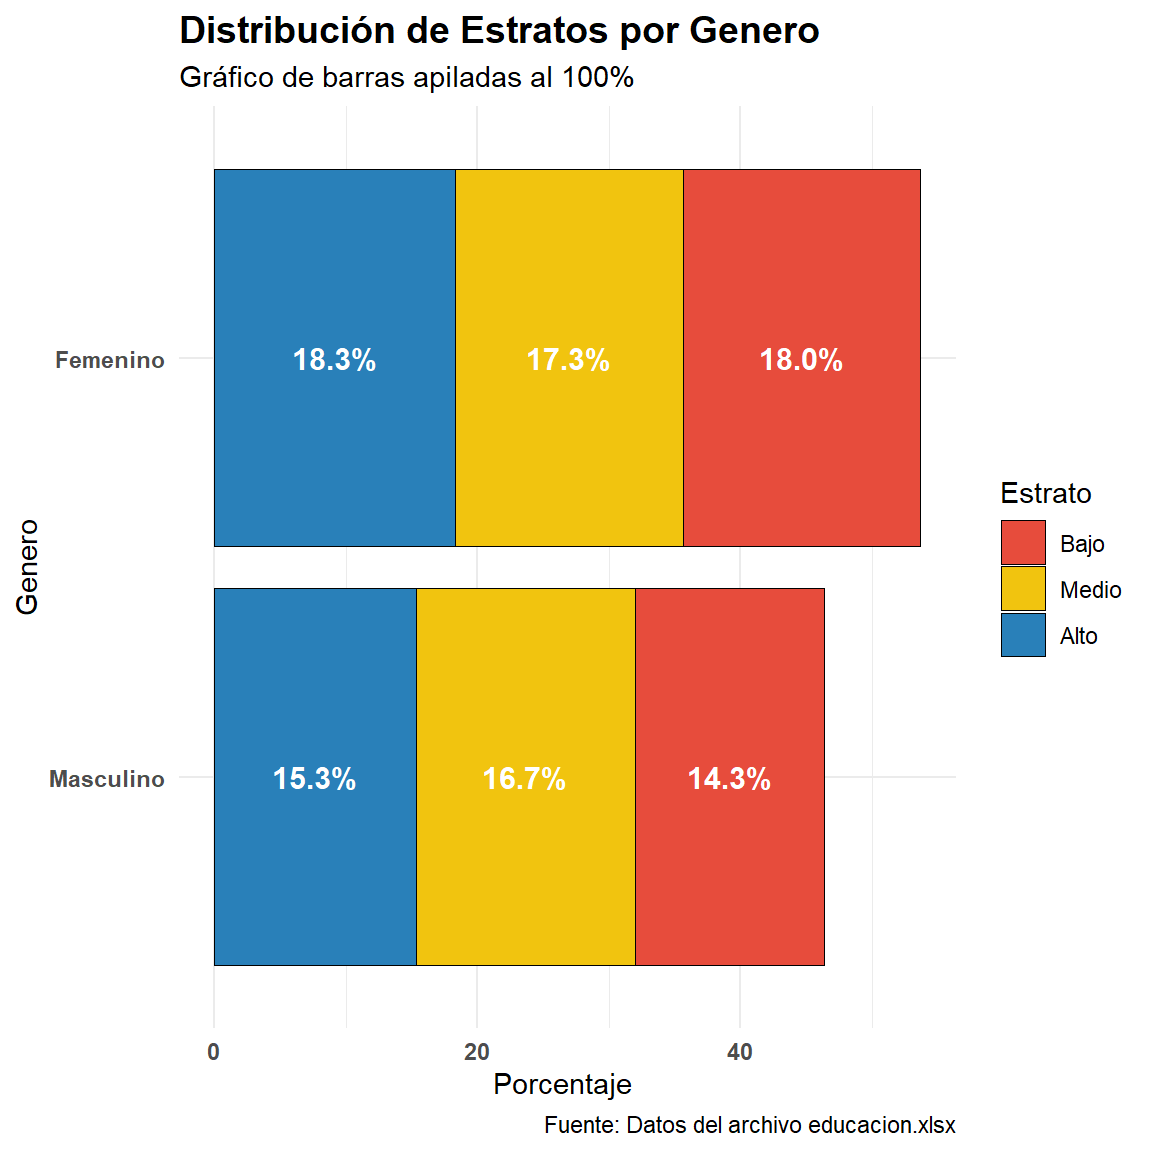
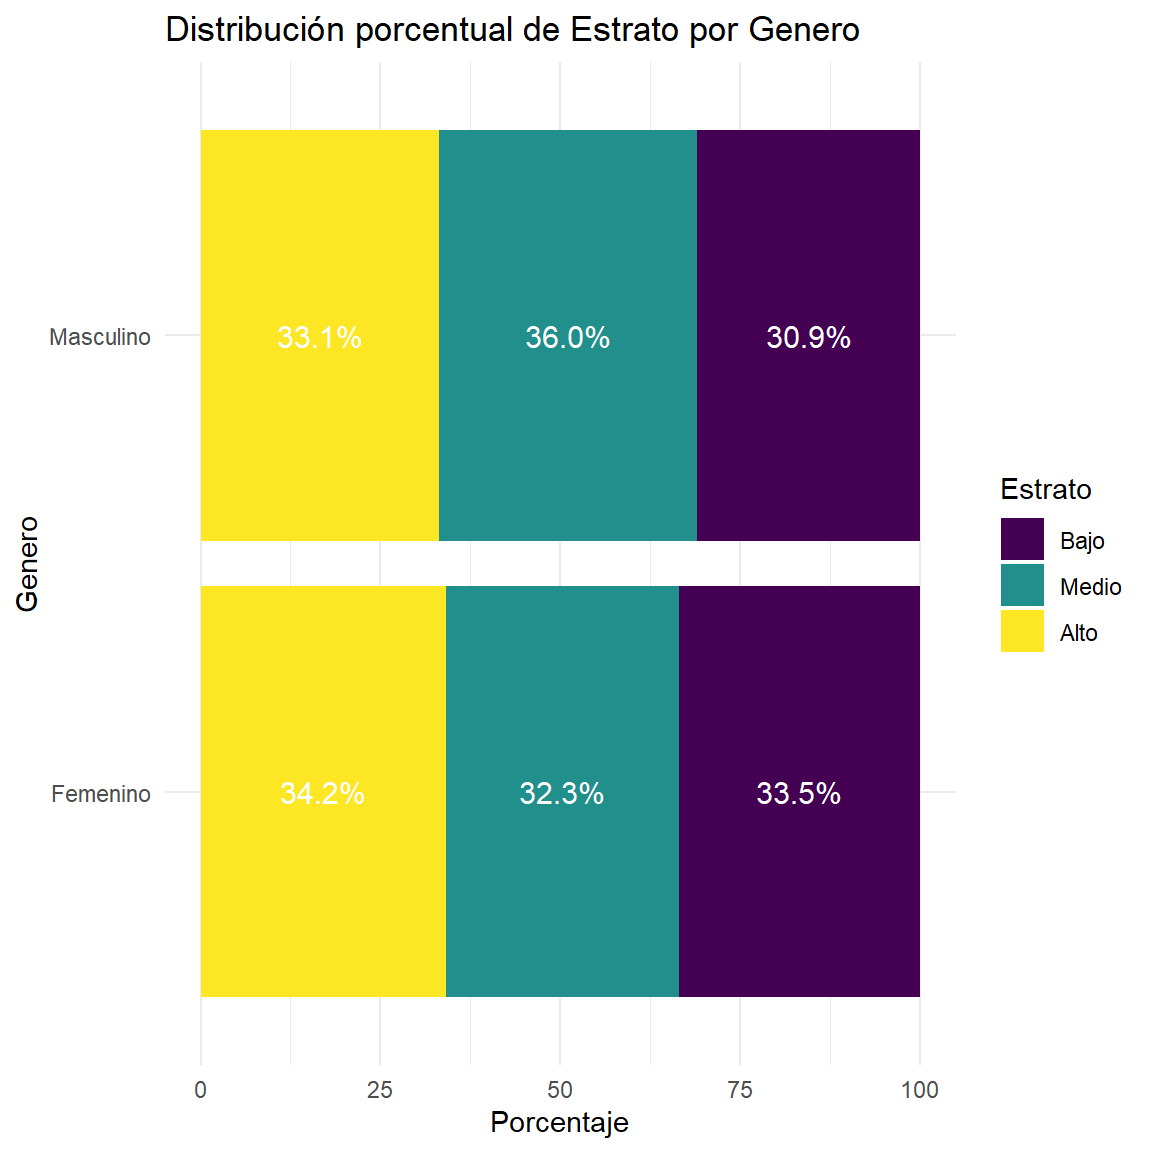
cambios pagina

diff --git a/index.html b/index.html
@@ -132,15 +132,15 @@ window.Quarto = {
 
 <body class="quarto-light">
 
-<header id="title-block-header" class="quarto-title-block default toc-left page-columns page-full">
+<header id="title-block-header" class="quarto-title-block default page-columns page-full">
   <div class="quarto-title-banner page-columns page-full">
-    <div class="quarto-title column-page-right">
+    <div class="quarto-title column-page-left">
       <h1 class="title">DISTRIBUCIONES DE FRECUENCIAS</h1>
             <p class="subtitle lead">TALLER_1</p>
                       </div>
   </div>
     
-  <div class="quarto-title-meta-author column-page-right">
+  <div class="quarto-title-meta-author column-page-left">
     <div class="quarto-title-meta-heading">Autores/as</div>
     <div class="quarto-title-meta-heading">Afiliación</div>
     
@@ -161,13 +161,13 @@ window.Quarto = {
         </div>
     </div>
 
-  <div class="quarto-title-meta column-page-right">
+  <div class="quarto-title-meta column-page-left">
 
         
       <div>
       <div class="quarto-title-meta-heading">Fecha de publicación</div>
       <div class="quarto-title-meta-contents">
-        <p class="date">23 de abril de 2026</p>
+        <p class="date">24 de abril de 2026</p>
       </div>
     </div>
     
@@ -175,8 +175,8 @@ window.Quarto = {
     </div>
     
   
-  </header><div id="quarto-content" class="page-columns page-rows-contents page-layout-full toc-left">
-<div id="quarto-sidebar-toc-left" class="sidebar toc-left">
+  </header><div id="quarto-content" class="page-columns page-rows-contents page-layout-full">
+<div id="quarto-margin-sidebar" class="sidebar margin-sidebar">
   <nav id="TOC" role="doc-toc" class="toc-active">
     <h2 id="toc-title">Tabla de contenidos</h2>
    
@@ -196,9 +196,7 @@ window.Quarto = {
   </ul>
 </nav>
 </div>
-<div id="quarto-margin-sidebar" class="sidebar margin-sidebar zindex-bottom">
-</div>
-<main class="content quarto-banner-title-block column-page-right" id="quarto-document-content">
+<main class="content quarto-banner-title-block column-page-left" id="quarto-document-content">
 
 
 
@@ -219,7 +217,7 @@ window.Quarto = {
 <style>
 body{
   background-color:#FFFFFF;
-  font-size:130%;
+  font-size:110%;
   text-align:justify;
 }
 </style>
@@ -751,7 +749,7 @@ $ Satisfaccion     &lt;chr&gt; "Muy alta", "Media", "Muy alta", "Muy alta", "Muy
 <div class="cell-output-display">
 <div class="quarto-figure quarto-figure-center">
 <figure class="figure">
-<p><img src="index_files/figure-html/unnamed-chunk-10-1.png" class="img-fluid quarto-figure quarto-figure-center figure-img" style="width:80.0%"></p>
+<p><img src="index_files/figure-html/unnamed-chunk-10-1.png" class="img-fluid quarto-figure quarto-figure-center figure-img" style="width:70.0%"></p>
 </figure>
 </div>
 </div>
@@ -791,7 +789,7 @@ $ Satisfaccion     &lt;chr&gt; "Muy alta", "Media", "Muy alta", "Muy alta", "Muy
 <div class="cell-output-display">
 <div class="quarto-figure quarto-figure-center">
 <figure class="figure">
-<p><img src="index_files/figure-html/unnamed-chunk-11-1.png" class="img-fluid quarto-figure quarto-figure-center figure-img" style="width:80.0%"></p>
+<p><img src="index_files/figure-html/unnamed-chunk-11-1.png" class="img-fluid quarto-figure quarto-figure-center figure-img" style="width:70.0%"></p>
 </figure>
 </div>
 </div>
@@ -942,7 +940,7 @@ $ Satisfaccion     &lt;chr&gt; "Muy alta", "Media", "Muy alta", "Muy alta", "Muy
 <div class="cell-output-display">
 <div class="quarto-figure quarto-figure-center">
 <figure class="figure">
-<p><img src="index_files/figure-html/unnamed-chunk-13-1.png" class="img-fluid quarto-figure quarto-figure-center figure-img" style="width:80.0%"></p>
+<p><img src="index_files/figure-html/unnamed-chunk-13-1.png" class="img-fluid quarto-figure quarto-figure-center figure-img" style="width:70.0%"></p>
 </figure>
 </div>
 </div>
@@ -1152,7 +1150,7 @@ $ Satisfaccion     &lt;chr&gt; "Muy alta", "Media", "Muy alta", "Muy alta", "Muy
 <div class="cell-output-display">
 <div class="quarto-figure quarto-figure-center">
 <figure class="figure">
-<p><img src="index_files/figure-html/unnamed-chunk-15-1.png" class="img-fluid quarto-figure quarto-figure-center figure-img" style="width:80.0%"></p>
+<p><img src="index_files/figure-html/unnamed-chunk-15-1.png" class="img-fluid quarto-figure quarto-figure-center figure-img" style="width:70.0%"></p>
 </figure>
 </div>
 </div>
@@ -1192,7 +1190,7 @@ $ Satisfaccion     &lt;chr&gt; "Muy alta", "Media", "Muy alta", "Muy alta", "Muy
 <div class="cell-output-display">
 <div class="quarto-figure quarto-figure-center">
 <figure class="figure">
-<p><img src="index_files/figure-html/unnamed-chunk-16-1.png" class="img-fluid quarto-figure quarto-figure-center figure-img" style="width:80.0%"></p>
+<p><img src="index_files/figure-html/unnamed-chunk-16-1.png" class="img-fluid quarto-figure quarto-figure-center figure-img" style="width:70.0%"></p>
 </figure>
 </div>
 </div>
@@ -1558,7 +1556,7 @@ Distribución de Frecuencias: Variable Horas
 <div class="cell-output-display">
 <div class="quarto-figure quarto-figure-center">
 <figure class="figure">
-<p><img src="index_files/figure-html/unnamed-chunk-27-1.png" class="img-fluid quarto-figure quarto-figure-center figure-img" style="width:80.0%"></p>
+<p><img src="index_files/figure-html/unnamed-chunk-27-1.png" class="img-fluid quarto-figure quarto-figure-center figure-img" style="width:70.0%"></p>
 </figure>
 </div>
 </div>
@@ -1595,7 +1593,7 @@ Distribución de Frecuencias: Variable Horas
 <div class="cell-output-display">
 <div class="quarto-figure quarto-figure-center">
 <figure class="figure">
-<p><img src="index_files/figure-html/unnamed-chunk-28-1.png" class="img-fluid quarto-figure quarto-figure-center figure-img" style="width:80.0%"></p>
+<p><img src="index_files/figure-html/unnamed-chunk-28-1.png" class="img-fluid quarto-figure quarto-figure-center figure-img" style="width:70.0%"></p>
 </figure>
 </div>
 </div>
@@ -1631,7 +1629,7 @@ Distribución de Frecuencias: Variable Horas
 <div class="cell-output-display">
 <div class="quarto-figure quarto-figure-center">
 <figure class="figure">
-<p><img src="index_files/figure-html/unnamed-chunk-29-1.png" class="img-fluid quarto-figure quarto-figure-center figure-img" style="width:80.0%"></p>
+<p><img src="index_files/figure-html/unnamed-chunk-29-1.png" class="img-fluid quarto-figure quarto-figure-center figure-img" style="width:70.0%"></p>
 </figure>
 </div>
 </div>
@@ -1819,7 +1817,7 @@ Distribución de Frecuencias: Variable Horas
 <div class="cell-output-display">
 <div class="quarto-figure quarto-figure-center">
 <figure class="figure">
-<p><img src="index_files/figure-html/unnamed-chunk-32-1.png" class="img-fluid quarto-figure quarto-figure-center figure-img" style="width:80.0%"></p>
+<p><img src="index_files/figure-html/unnamed-chunk-32-1.png" class="img-fluid quarto-figure quarto-figure-center figure-img" style="width:70.0%"></p>
 </figure>
 </div>
 </div>
@@ -1854,7 +1852,7 @@ Distribución de Frecuencias: Variable Horas
 <div class="cell-output-display">
 <div class="quarto-figure quarto-figure-center">
 <figure class="figure">
-<p><img src="index_files/figure-html/unnamed-chunk-33-1.png" class="img-fluid quarto-figure quarto-figure-center figure-img" style="width:80.0%"></p>
+<p><img src="index_files/figure-html/unnamed-chunk-33-1.png" class="img-fluid quarto-figure quarto-figure-center figure-img" style="width:70.0%"></p>
 </figure>
 </div>
 </div>
@@ -1869,54 +1867,29 @@ Distribución de Frecuencias: Variable Horas
 <span id="cb49-3"><a href="#cb49-3" aria-hidden="true" tabindex="-1"></a><span class="fu">library</span>(dplyr)</span>
 <span id="cb49-4"><a href="#cb49-4" aria-hidden="true" tabindex="-1"></a><span class="fu">library</span>(readxl)</span>
 <span id="cb49-5"><a href="#cb49-5" aria-hidden="true" tabindex="-1"></a></span>
-<span id="cb49-6"><a href="#cb49-6" aria-hidden="true" tabindex="-1"></a>data_grafico <span class="ot">&lt;-</span> educacion <span class="sc">%&gt;%</span></span>
-<span id="cb49-7"><a href="#cb49-7" aria-hidden="true" tabindex="-1"></a></span>
-<span id="cb49-8"><a href="#cb49-8" aria-hidden="true" tabindex="-1"></a>  <span class="fu">filter</span>(<span class="sc">!</span><span class="fu">is.na</span>(Genero), <span class="sc">!</span><span class="fu">is.na</span>(Estrato)) <span class="sc">%&gt;%</span></span>
-<span id="cb49-9"><a href="#cb49-9" aria-hidden="true" tabindex="-1"></a></span>
-<span id="cb49-10"><a href="#cb49-10" aria-hidden="true" tabindex="-1"></a>  <span class="fu">mutate</span>(</span>
-<span id="cb49-11"><a href="#cb49-11" aria-hidden="true" tabindex="-1"></a>    <span class="at">Genero =</span> <span class="fu">factor</span>(Genero, <span class="at">levels =</span> <span class="fu">c</span>(<span class="st">"Masculino"</span>, <span class="st">"Femenino"</span>)),</span>
-<span id="cb49-12"><a href="#cb49-12" aria-hidden="true" tabindex="-1"></a>    <span class="at">Estrato =</span> <span class="fu">factor</span>(Estrato, <span class="at">levels =</span> <span class="fu">c</span>(<span class="st">"Bajo"</span>, <span class="st">"Medio"</span>, <span class="st">"Alto"</span>))</span>
-<span id="cb49-13"><a href="#cb49-13" aria-hidden="true" tabindex="-1"></a>  ) <span class="sc">%&gt;%</span></span>
-<span id="cb49-14"><a href="#cb49-14" aria-hidden="true" tabindex="-1"></a>  <span class="fu">count</span>(Genero, Estrato) <span class="sc">%&gt;%</span></span>
-<span id="cb49-15"><a href="#cb49-15" aria-hidden="true" tabindex="-1"></a>  <span class="fu">group_by</span>() <span class="sc">%&gt;%</span></span>
-<span id="cb49-16"><a href="#cb49-16" aria-hidden="true" tabindex="-1"></a>  <span class="fu">mutate</span>(<span class="at">porcentaje =</span> n <span class="sc">/</span> <span class="fu">sum</span>(n) <span class="sc">*</span> <span class="dv">100</span>)</span>
-<span id="cb49-17"><a href="#cb49-17" aria-hidden="true" tabindex="-1"></a></span>
-<span id="cb49-18"><a href="#cb49-18" aria-hidden="true" tabindex="-1"></a><span class="fu">ggplot</span>(data_grafico, <span class="fu">aes</span>(<span class="at">x =</span> Genero, <span class="at">y =</span> porcentaje, <span class="at">fill =</span> Estrato)) <span class="sc">+</span></span>
-<span id="cb49-19"><a href="#cb49-19" aria-hidden="true" tabindex="-1"></a>  <span class="co"># geom_col con position = "stack" crea el efecto apilado</span></span>
-<span id="cb49-20"><a href="#cb49-20" aria-hidden="true" tabindex="-1"></a>  <span class="fu">geom_col</span>(<span class="at">position =</span> <span class="st">"stack"</span>, <span class="at">color =</span> <span class="st">"black"</span>, <span class="at">linewidth =</span> <span class="fl">0.3</span>) <span class="sc">+</span></span>
-<span id="cb49-21"><a href="#cb49-21" aria-hidden="true" tabindex="-1"></a>  </span>
-<span id="cb49-22"><a href="#cb49-22" aria-hidden="true" tabindex="-1"></a>  <span class="fu">scale_fill_manual</span>(<span class="at">values =</span> <span class="fu">c</span>(<span class="st">"Bajo"</span> <span class="ot">=</span> <span class="st">"#E74C3C"</span>, <span class="st">"Medio"</span> <span class="ot">=</span> <span class="st">"#F1C40F"</span>, <span class="st">"Alto"</span> <span class="ot">=</span> <span class="st">"#2980B9"</span>)) <span class="sc">+</span></span>
-<span id="cb49-23"><a href="#cb49-23" aria-hidden="true" tabindex="-1"></a>  </span>
-<span id="cb49-24"><a href="#cb49-24" aria-hidden="true" tabindex="-1"></a>  <span class="fu">geom_text</span>(</span>
-<span id="cb49-25"><a href="#cb49-25" aria-hidden="true" tabindex="-1"></a>    <span class="fu">aes</span>(<span class="at">label =</span> <span class="fu">sprintf</span>(<span class="st">"%.1f%%"</span>, porcentaje)),</span>
-<span id="cb49-26"><a href="#cb49-26" aria-hidden="true" tabindex="-1"></a>    <span class="at">position =</span> <span class="fu">position_stack</span>(<span class="at">vjust =</span> <span class="fl">0.5</span>),</span>
-<span id="cb49-27"><a href="#cb49-27" aria-hidden="true" tabindex="-1"></a>    <span class="at">color =</span> <span class="st">"white"</span>,</span>
-<span id="cb49-28"><a href="#cb49-28" aria-hidden="true" tabindex="-1"></a>    <span class="at">fontface =</span> <span class="st">"bold"</span>,</span>
-<span id="cb49-29"><a href="#cb49-29" aria-hidden="true" tabindex="-1"></a>    <span class="at">size =</span> <span class="dv">4</span></span>
-<span id="cb49-30"><a href="#cb49-30" aria-hidden="true" tabindex="-1"></a>  ) <span class="sc">+</span></span>
-<span id="cb49-31"><a href="#cb49-31" aria-hidden="true" tabindex="-1"></a>  </span>
-<span id="cb49-32"><a href="#cb49-32" aria-hidden="true" tabindex="-1"></a>  <span class="fu">labs</span>(</span>
-<span id="cb49-33"><a href="#cb49-33" aria-hidden="true" tabindex="-1"></a>      <span class="at">title =</span> <span class="st">"Distribución de Estratos por Genero "</span>,</span>
-<span id="cb49-34"><a href="#cb49-34" aria-hidden="true" tabindex="-1"></a>      <span class="at">subtitle =</span> <span class="st">"Gráfico de barras apiladas al 100%"</span>,</span>
-<span id="cb49-35"><a href="#cb49-35" aria-hidden="true" tabindex="-1"></a>      <span class="at">x =</span> <span class="st">"Genero"</span>,</span>
-<span id="cb49-36"><a href="#cb49-36" aria-hidden="true" tabindex="-1"></a>      <span class="at">y =</span> <span class="st">"Porcentaje "</span>,</span>
-<span id="cb49-37"><a href="#cb49-37" aria-hidden="true" tabindex="-1"></a>      <span class="at">fill =</span> <span class="st">"Estrato "</span>,</span>
-<span id="cb49-38"><a href="#cb49-38" aria-hidden="true" tabindex="-1"></a>      <span class="at">caption =</span> <span class="st">"Fuente: Datos del archivo educacion.xlsx"</span></span>
-<span id="cb49-39"><a href="#cb49-39" aria-hidden="true" tabindex="-1"></a>    ) <span class="sc">+</span></span>
-<span id="cb49-40"><a href="#cb49-40" aria-hidden="true" tabindex="-1"></a>    </span>
-<span id="cb49-41"><a href="#cb49-41" aria-hidden="true" tabindex="-1"></a>    <span class="fu">theme_minimal</span>() <span class="sc">+</span></span>
-<span id="cb49-42"><a href="#cb49-42" aria-hidden="true" tabindex="-1"></a>    <span class="fu">theme</span>(</span>
-<span id="cb49-43"><a href="#cb49-43" aria-hidden="true" tabindex="-1"></a>      <span class="at">plot.title =</span> <span class="fu">element_text</span>(<span class="at">face =</span> <span class="st">"bold"</span>, <span class="at">size =</span> <span class="dv">14</span>),</span>
-<span id="cb49-44"><a href="#cb49-44" aria-hidden="true" tabindex="-1"></a>      <span class="at">axis.text =</span> <span class="fu">element_text</span>(<span class="at">face =</span> <span class="st">"bold"</span>),</span>
-<span id="cb49-45"><a href="#cb49-45" aria-hidden="true" tabindex="-1"></a>      <span class="at">legend.position =</span> <span class="st">"right"</span></span>
-<span id="cb49-46"><a href="#cb49-46" aria-hidden="true" tabindex="-1"></a>  ) <span class="sc">+</span></span>
-<span id="cb49-47"><a href="#cb49-47" aria-hidden="true" tabindex="-1"></a>  </span>
-<span id="cb49-48"><a href="#cb49-48" aria-hidden="true" tabindex="-1"></a>  <span class="fu">coord_flip</span>()</span></code></pre></div><button title="Copiar al portapapeles" class="code-copy-button"><i class="bi"></i></button></div>
+<span id="cb49-6"><a href="#cb49-6" aria-hidden="true" tabindex="-1"></a>data_porcentaje <span class="ot">&lt;-</span> educacion <span class="sc">%&gt;%</span></span>
+<span id="cb49-7"><a href="#cb49-7" aria-hidden="true" tabindex="-1"></a>  <span class="fu">count</span>(Genero, Estrato) <span class="sc">%&gt;%</span></span>
+<span id="cb49-8"><a href="#cb49-8" aria-hidden="true" tabindex="-1"></a>  <span class="fu">group_by</span>(Genero) <span class="sc">%&gt;%</span></span>
+<span id="cb49-9"><a href="#cb49-9" aria-hidden="true" tabindex="-1"></a>  <span class="fu">mutate</span>(<span class="at">porcentaje =</span> n <span class="sc">/</span> <span class="fu">sum</span>(n) <span class="sc">*</span> <span class="dv">100</span>)</span>
+<span id="cb49-10"><a href="#cb49-10" aria-hidden="true" tabindex="-1"></a></span>
+<span id="cb49-11"><a href="#cb49-11" aria-hidden="true" tabindex="-1"></a><span class="fu">ggplot</span>(data_porcentaje, <span class="fu">aes</span>(<span class="at">x =</span> Genero, <span class="at">y =</span> porcentaje, <span class="at">fill =</span> Estrato)) <span class="sc">+</span></span>
+<span id="cb49-12"><a href="#cb49-12" aria-hidden="true" tabindex="-1"></a>  <span class="fu">geom_bar</span>(<span class="at">stat =</span> <span class="st">"identity"</span>, <span class="at">position =</span> <span class="st">"stack"</span>) <span class="sc">+</span></span>
+<span id="cb49-13"><a href="#cb49-13" aria-hidden="true" tabindex="-1"></a>  <span class="fu">labs</span>(<span class="at">title =</span> <span class="st">"Distribución porcentual de Estrato por Genero"</span>,</span>
+<span id="cb49-14"><a href="#cb49-14" aria-hidden="true" tabindex="-1"></a>       <span class="at">x =</span> <span class="st">"Genero"</span>,</span>
+<span id="cb49-15"><a href="#cb49-15" aria-hidden="true" tabindex="-1"></a>       <span class="at">y =</span> <span class="st">"Porcentaje"</span>,</span>
+<span id="cb49-16"><a href="#cb49-16" aria-hidden="true" tabindex="-1"></a>       <span class="at">fill =</span> <span class="st">"Estrato"</span>) <span class="sc">+</span></span>
+<span id="cb49-17"><a href="#cb49-17" aria-hidden="true" tabindex="-1"></a>  <span class="fu">theme_minimal</span>() <span class="sc">+</span></span>
+<span id="cb49-18"><a href="#cb49-18" aria-hidden="true" tabindex="-1"></a>  <span class="fu">geom_text</span>(<span class="fu">aes</span>(<span class="at">label =</span> <span class="fu">sprintf</span>(<span class="st">"%.1f%%"</span>, porcentaje)), </span>
+<span id="cb49-19"><a href="#cb49-19" aria-hidden="true" tabindex="-1"></a>            <span class="at">position =</span> <span class="fu">position_stack</span>(<span class="at">vjust =</span> <span class="fl">0.5</span>), </span>
+<span id="cb49-20"><a href="#cb49-20" aria-hidden="true" tabindex="-1"></a>            <span class="at">color =</span> <span class="st">"white"</span>,</span>
+<span id="cb49-21"><a href="#cb49-21" aria-hidden="true" tabindex="-1"></a>            <span class="at">size =</span> <span class="dv">4</span>) <span class="sc">+</span></span>
+<span id="cb49-22"><a href="#cb49-22" aria-hidden="true" tabindex="-1"></a></span>
+<span id="cb49-23"><a href="#cb49-23" aria-hidden="true" tabindex="-1"></a><span class="fu">coord_flip</span>()</span></code></pre></div><button title="Copiar al portapapeles" class="code-copy-button"><i class="bi"></i></button></div>
 </details>
 <div class="cell-output-display">
 <div class="quarto-figure quarto-figure-center">
 <figure class="figure">
-<p><img src="index_files/figure-html/unnamed-chunk-34-1.png" class="img-fluid quarto-figure quarto-figure-center figure-img" style="width:80.0%"></p>
+<p><img src="index_files/figure-html/unnamed-chunk-34-1.png" class="img-fluid quarto-figure quarto-figure-center figure-img" style="width:70.0%"></p>
 </figure>
 </div>
 </div>
